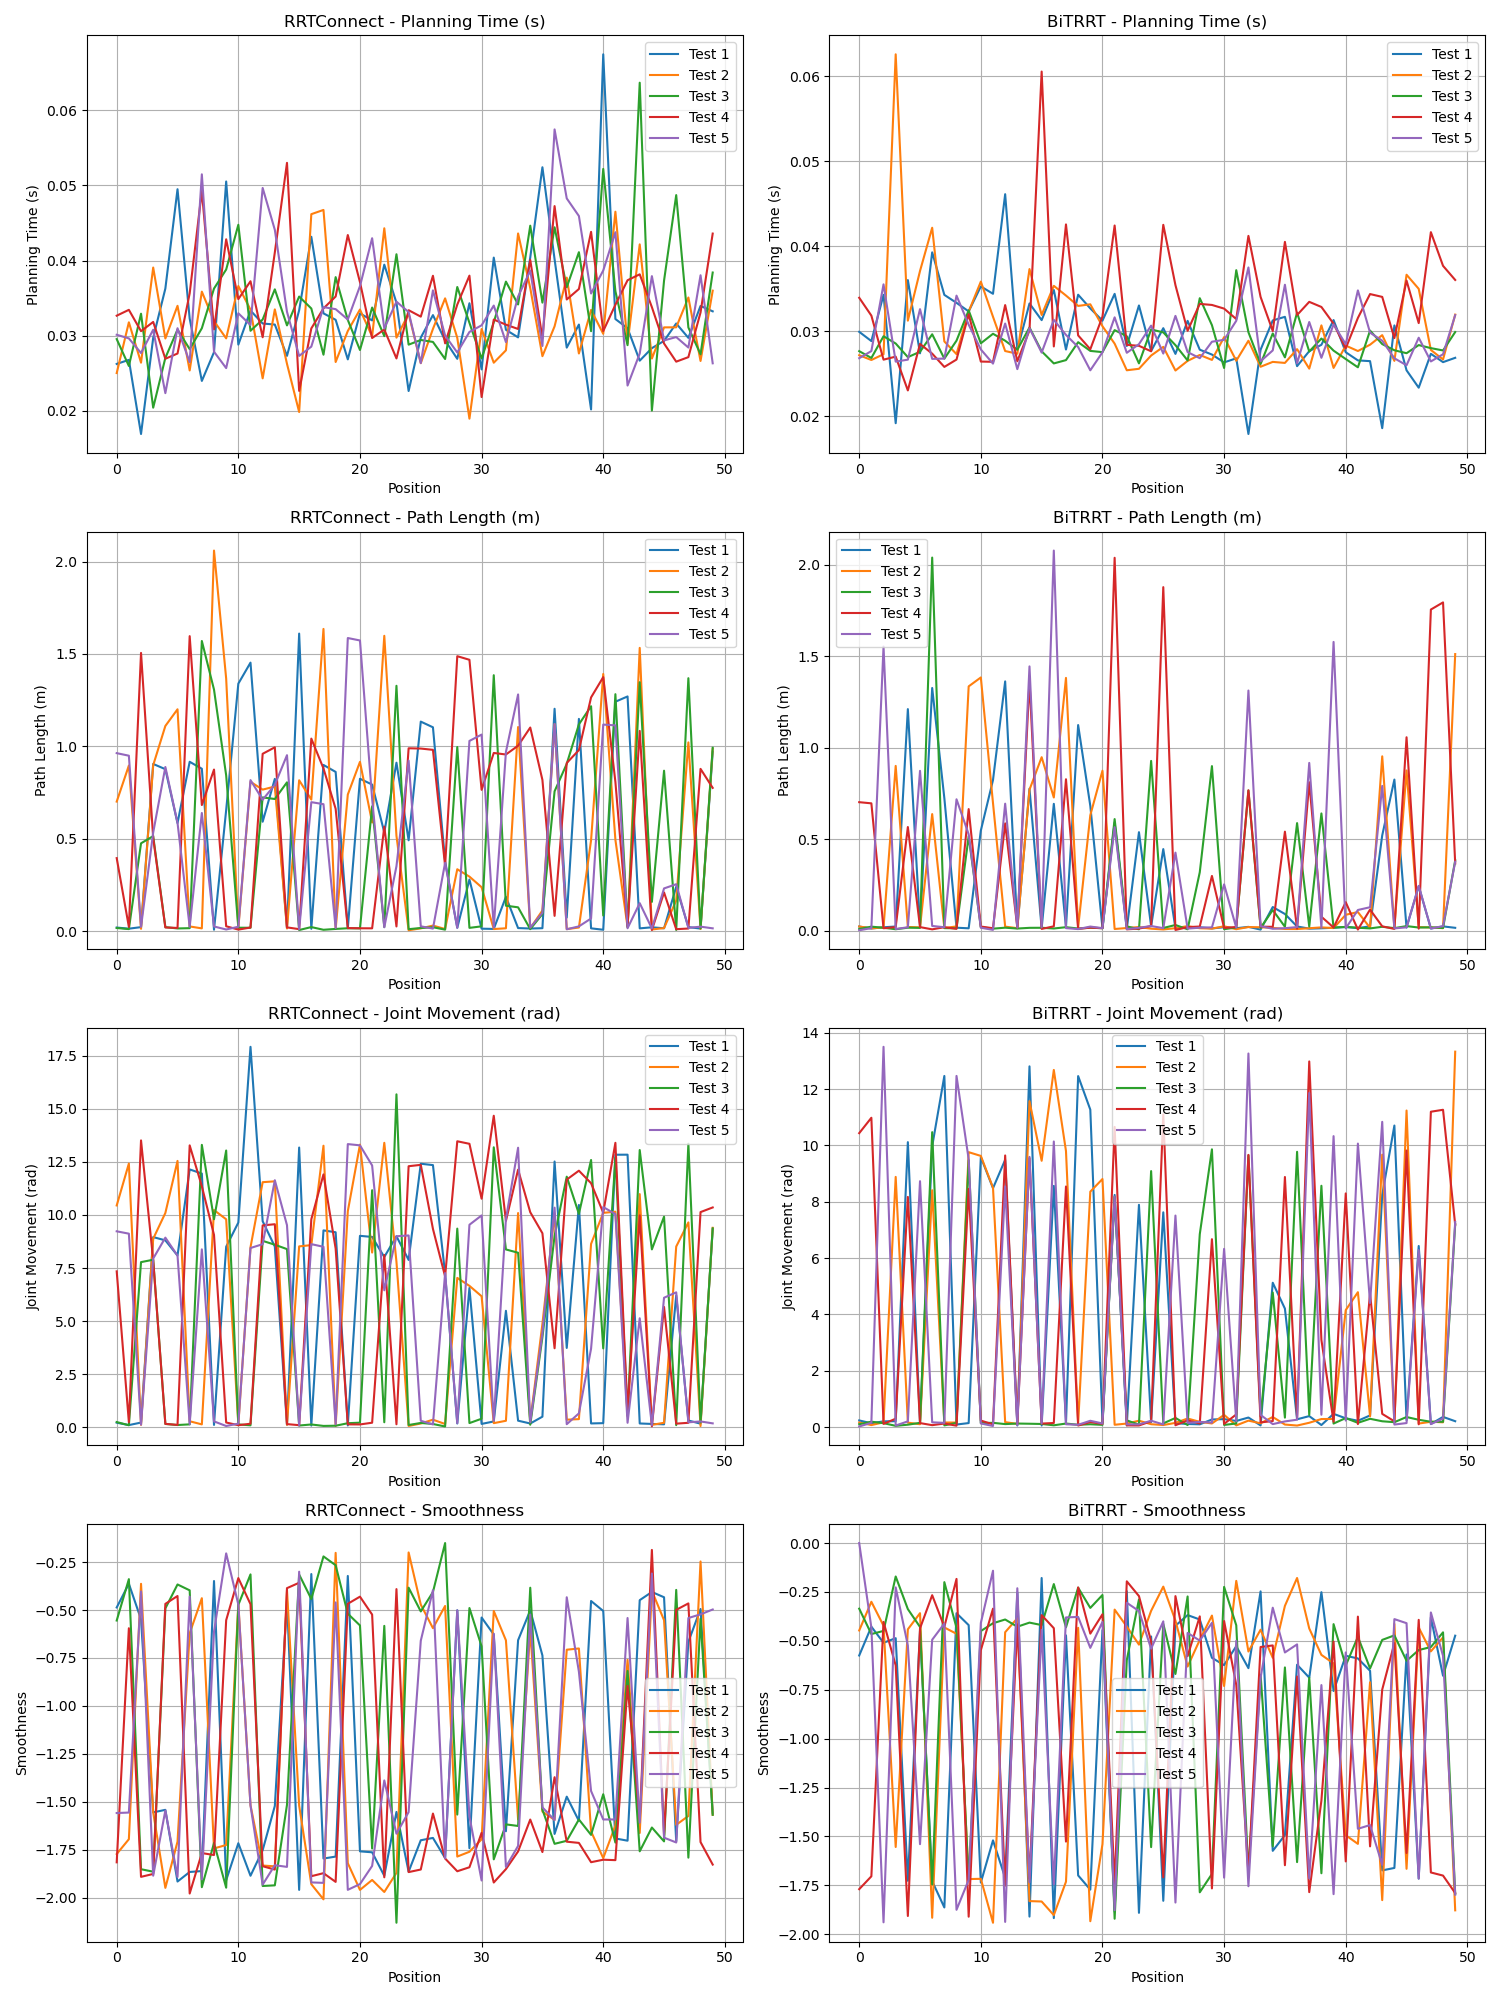
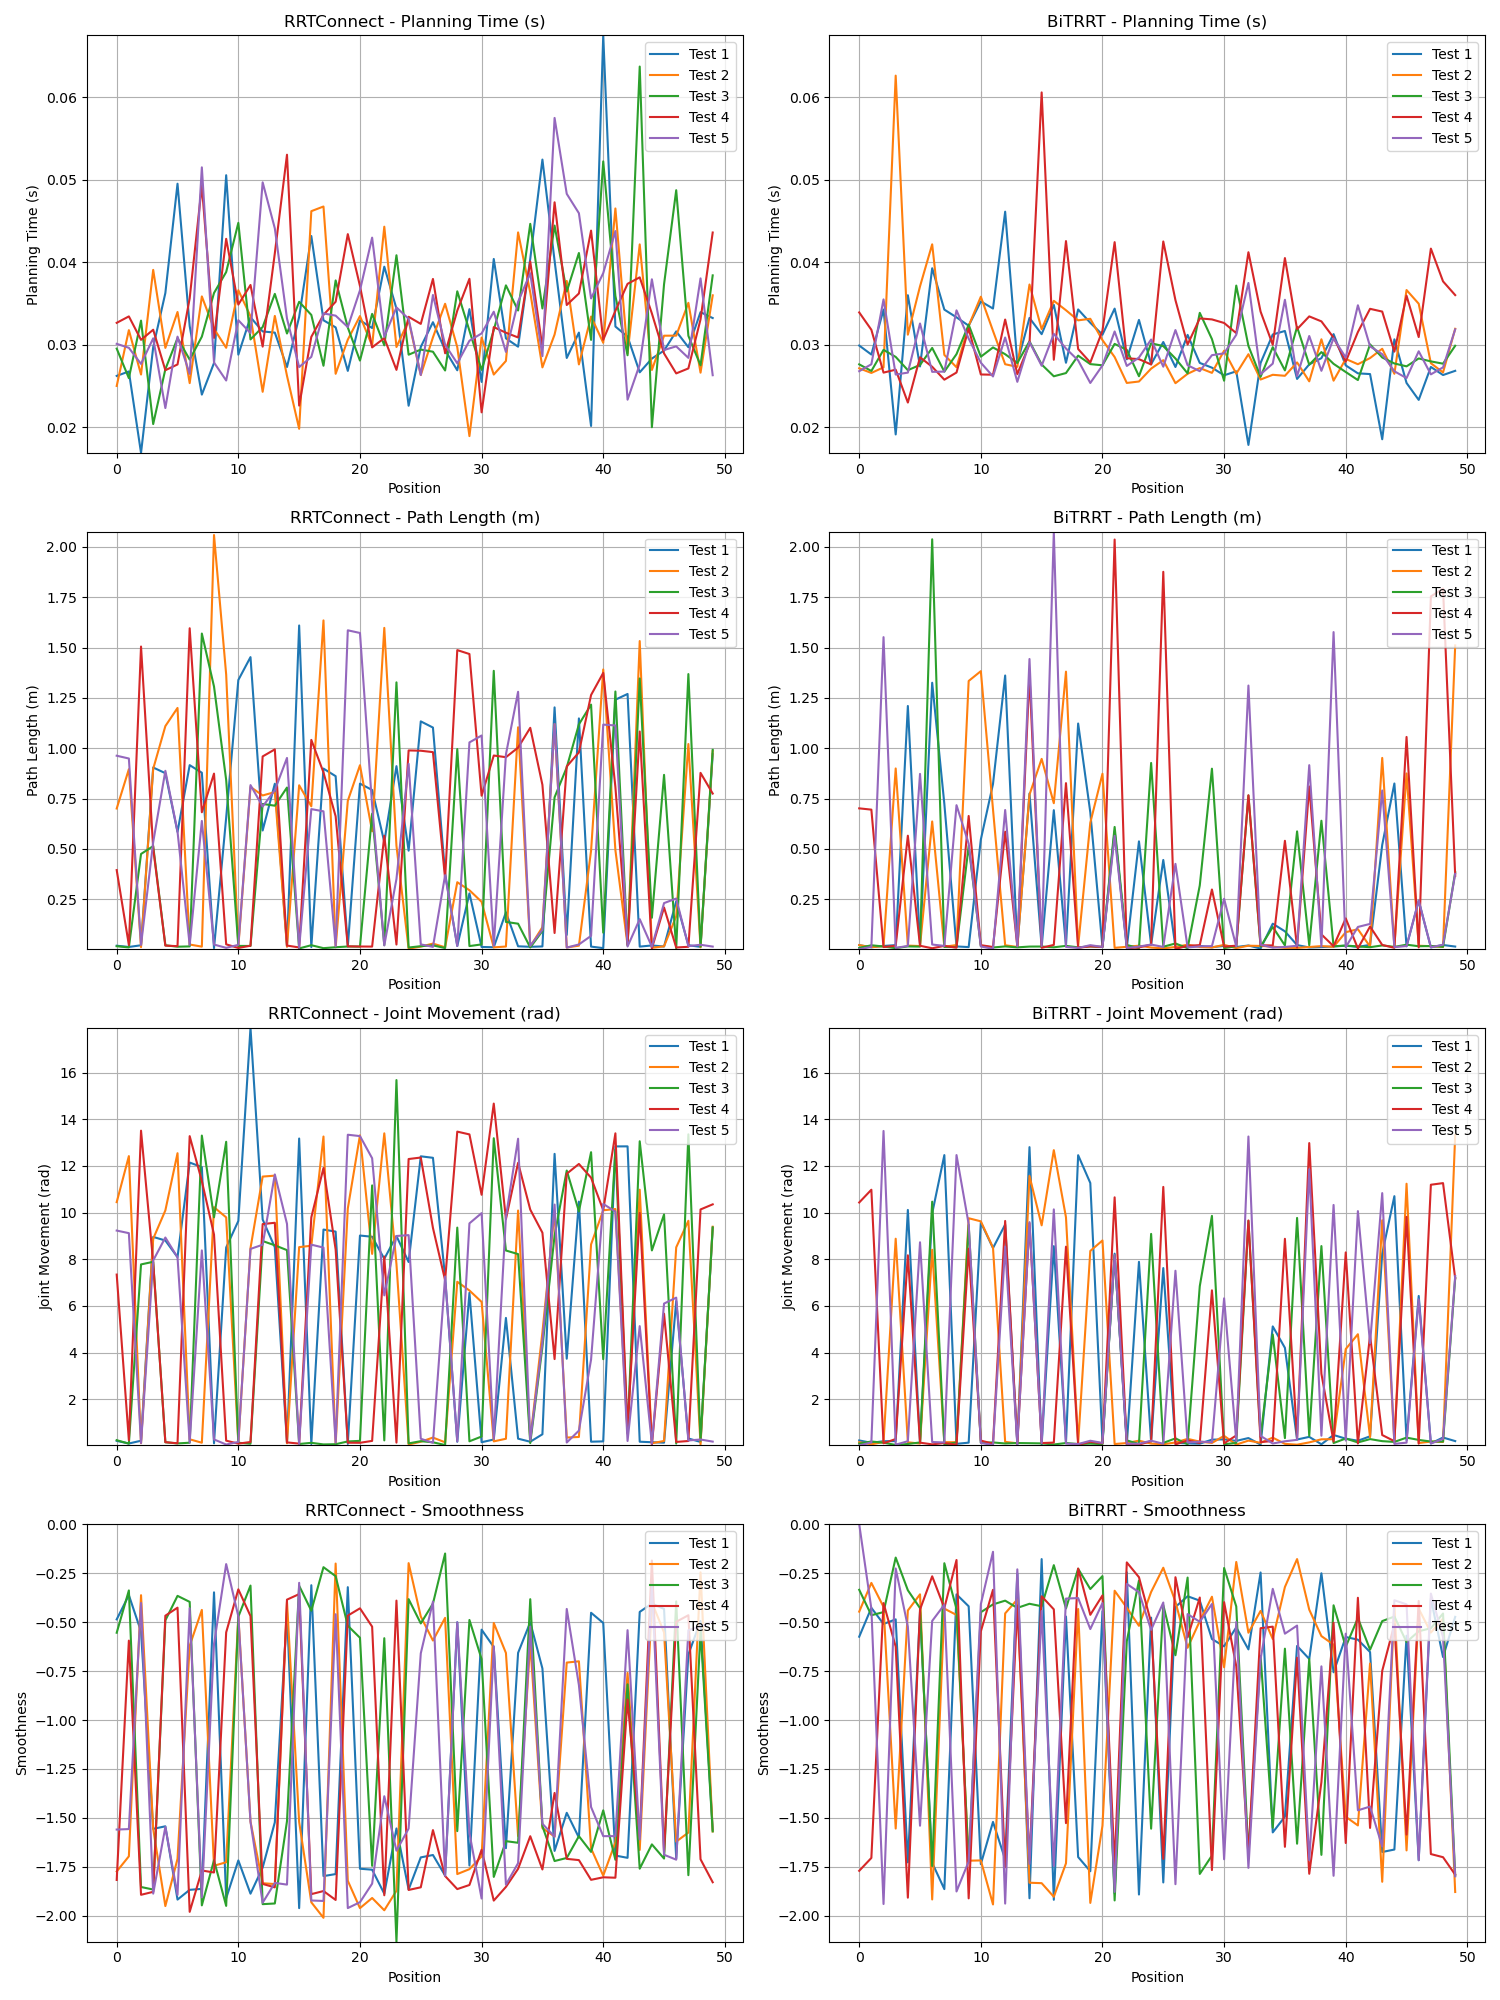
[ENH]: 生成数据图像统一刻度

diff --git a/src/planning_node/view/planning.py b/src/planning_node/view/planning.py
@@ -45,6 +45,14 @@ titles = ['Planning Time (s)', 'Path Length (m)', 'Joint Movement (rad)', 'Smoot
 
 # 绘制折线图
 for i, (metric, title) in enumerate(zip(metrics, titles)):
+    # 计算当前指标的最大值和最小值
+    all_values = []
+    for data in rrt_data + bitrrt_data:
+        all_values.extend(data[metric])
+    y_min = min(all_values)
+    # y_min = 0
+    y_max = max(all_values)
+    
     # RRTConnect
     ax = axes[i, 0]
     for j in range(len(rrt_data)):
@@ -52,8 +60,9 @@ for i, (metric, title) in enumerate(zip(metrics, titles)):
     ax.set_title(f'RRTConnect - {title}')
     ax.set_xlabel('Position')
     ax.set_ylabel(title)
+    ax.set_ylim(y_min, y_max)  # 设置y轴范围
     ax.grid(True)
-    ax.legend()
+    ax.legend(loc='upper right')  # 指定图例位置在右上角
 
     # BiTRRT
     ax = axes[i, 1]
@@ -62,8 +71,9 @@ for i, (metric, title) in enumerate(zip(metrics, titles)):
     ax.set_title(f'BiTRRT - {title}')
     ax.set_xlabel('Position')
     ax.set_ylabel(title)
+    ax.set_ylim(y_min, y_max)  # 设置相同的y轴范围
     ax.grid(True)
-    ax.legend()
+    ax.legend(loc='upper right')  # 指定图例位置在右上角
 
 plt.tight_layout()
 plt.savefig('src/planning_node/test_results/comparison_lines.png')
